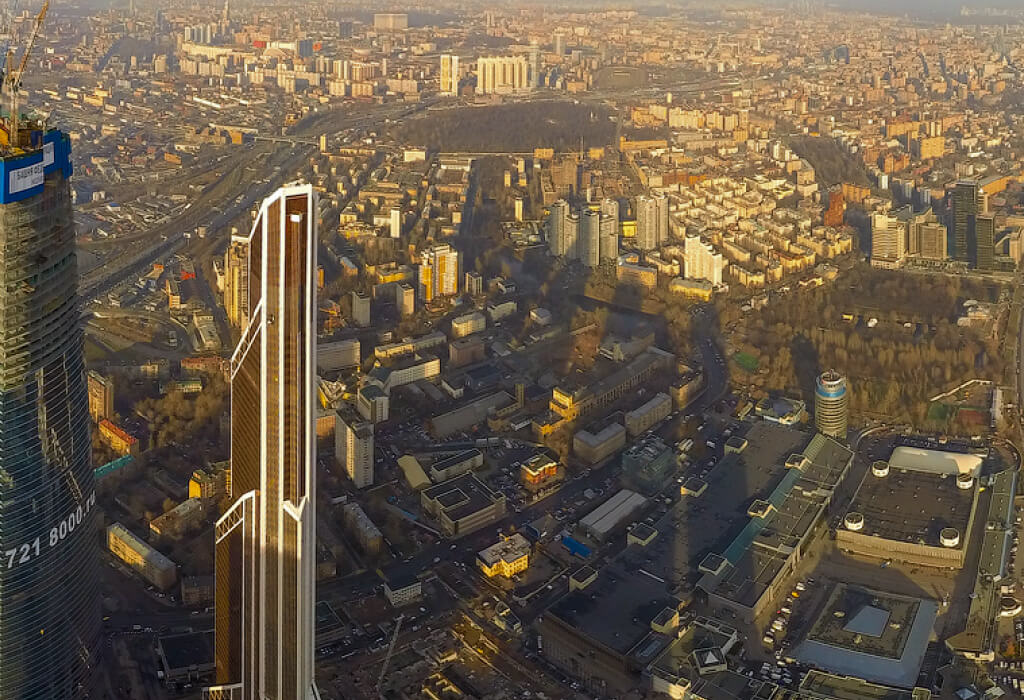
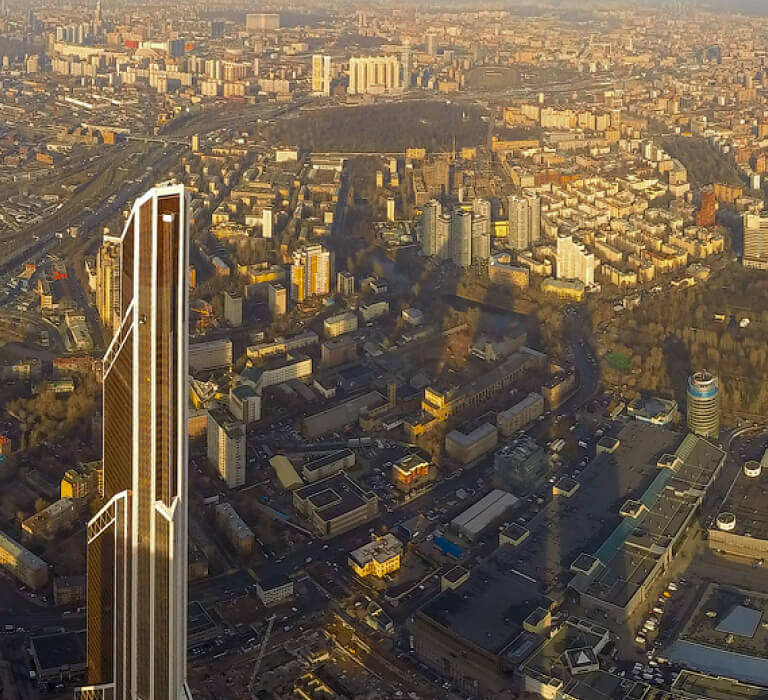
Adds styles for the tablet in the `hero` block.

diff --git a/src/scss/mobile/index/hero.scss b/src/scss/mobile/index/hero.scss
@@ -1,14 +1,38 @@
 .hero {
   position: relative;
-  padding: rem(79) rem(30) rem(89) rem(39);
-  min-height: rem(450);
-  background-color: $muddy-waters;
+  display: flex;
+  //padding: rem(79) rem(30) rem(89) rem(39);
+  min-height: rem(490);
   background-image:
-          linear-gradient(-45deg, rgba($muddy-waters, 0.4) 50%, transparent 50%),
+          linear-gradient(-42deg, rgba($muddy-waters, 0.4) 48%, transparent 48%),
           url("../images/hero/hero-mobile.jpg");
   background-position: 50% 50%;
   background-size: cover;
   background-repeat: no-repeat;
+  background-color: $muddy-waters;
+}
+
+.hero__wrap {
+  position: relative;
+  margin: rem(64) auto auto auto;
+  padding: rem(15) rem(38);
+  width: 100%;
+  z-index: 1;
+
+  &::before {
+    content: "";
+    position: absolute;
+    left: 0;
+    top: 0;
+    border-radius: 50px;
+    width: 100%;
+    height: 100%;
+    background-image: radial-gradient(at center, rgba($mine-shaft, 0.4), rgba($mine-shaft, 0.4));
+    background-size: cover;
+    background-repeat: no-repeat;
+    filter: blur(15px);
+    z-index: -1;
+  }
 }
 
 .hero__title {
@@ -28,5 +52,5 @@
 }
 
 .hero__item {
-  line-height: rem(30);
+  line-height: rem(31);
 }

diff --git a/src/scss/tablet/index/hero.scss b/src/scss/tablet/index/hero.scss
@@ -1,0 +1,33 @@
+@media (min-width: rem($tablet-width)) {
+  .hero {
+    padding: 0;
+    min-height: rem(700);
+    background-image:
+            linear-gradient(-42deg, rgba(186, 151, 101, 0.4) 37.5%, transparent 30%),
+            url("../images/hero/hero-tablet.jpg");
+    background-position: 50% 50%;
+    background-size: cover;
+    background-repeat: no-repeat;
+    background-color: $muddy-waters;
+  }
+
+  .hero__wrap {
+    margin: rem(149) auto auto auto;
+    width: 100%;
+    max-width: rem(698);
+  }
+
+  .hero__title {
+    margin-bottom: rem(23);
+    font-size: rem(50);
+    line-height: rem(82);
+  }
+
+  .hero__list {
+    font-size: rem(22);
+  }
+
+  .hero__item {
+    line-height: rem(42);
+  }
+}

diff --git a/src/scss/_variables.scss b/src/scss/_variables.scss
@@ -10,6 +10,8 @@ $silver: #b8b8b8;
 $color-gallery: #ededed;
 $silver-chalice: #a1a1a1;
 $twine: #be9863;
+$mine-shaft: #3d3d3d;
+$wild-sand: #f5f5f5;
 
 // fonts
 
@@ -36,3 +38,4 @@ $font-weight-secondary: $font-weight-extra-bold;
 // viewport
 
 $mobile-width: 320px;
+$tablet-width: 768px;

diff --git a/src/scss/mobile/common/navigation.scss b/src/scss/mobile/common/navigation.scss
@@ -5,7 +5,7 @@
   display: none;
   padding-top: rem(26);
   width: 0;
-  background-color: rgba($white, 0.95);
+  background-color: $wild-sand;
 
   &--opened {
     position: fixed;

diff --git a/src/scss/main.scss b/src/scss/main.scss
@@ -20,4 +20,5 @@
 @import "mobile/common/footer";
 @import "tablet/common/header";
 @import "tablet/common/navigation";
+@import "tablet/index/hero";
 @import "helpers";

diff --git a/src/scss/tablet/common/navigation.scss b/src/scss/tablet/common/navigation.scss
@@ -1,4 +1,4 @@
-@media (min-width: rem(768)) {
+@media (min-width: rem($tablet-width)) {
   .navigation {
     position: static;
     display: block;

diff --git a/src/scss/tablet/common/header.scss b/src/scss/tablet/common/header.scss
@@ -1,4 +1,4 @@
-@media (min-width: rem(768)) {
+@media (min-width: rem($tablet-width)) {
   .header {
     display: flex;
     flex-direction: row;
